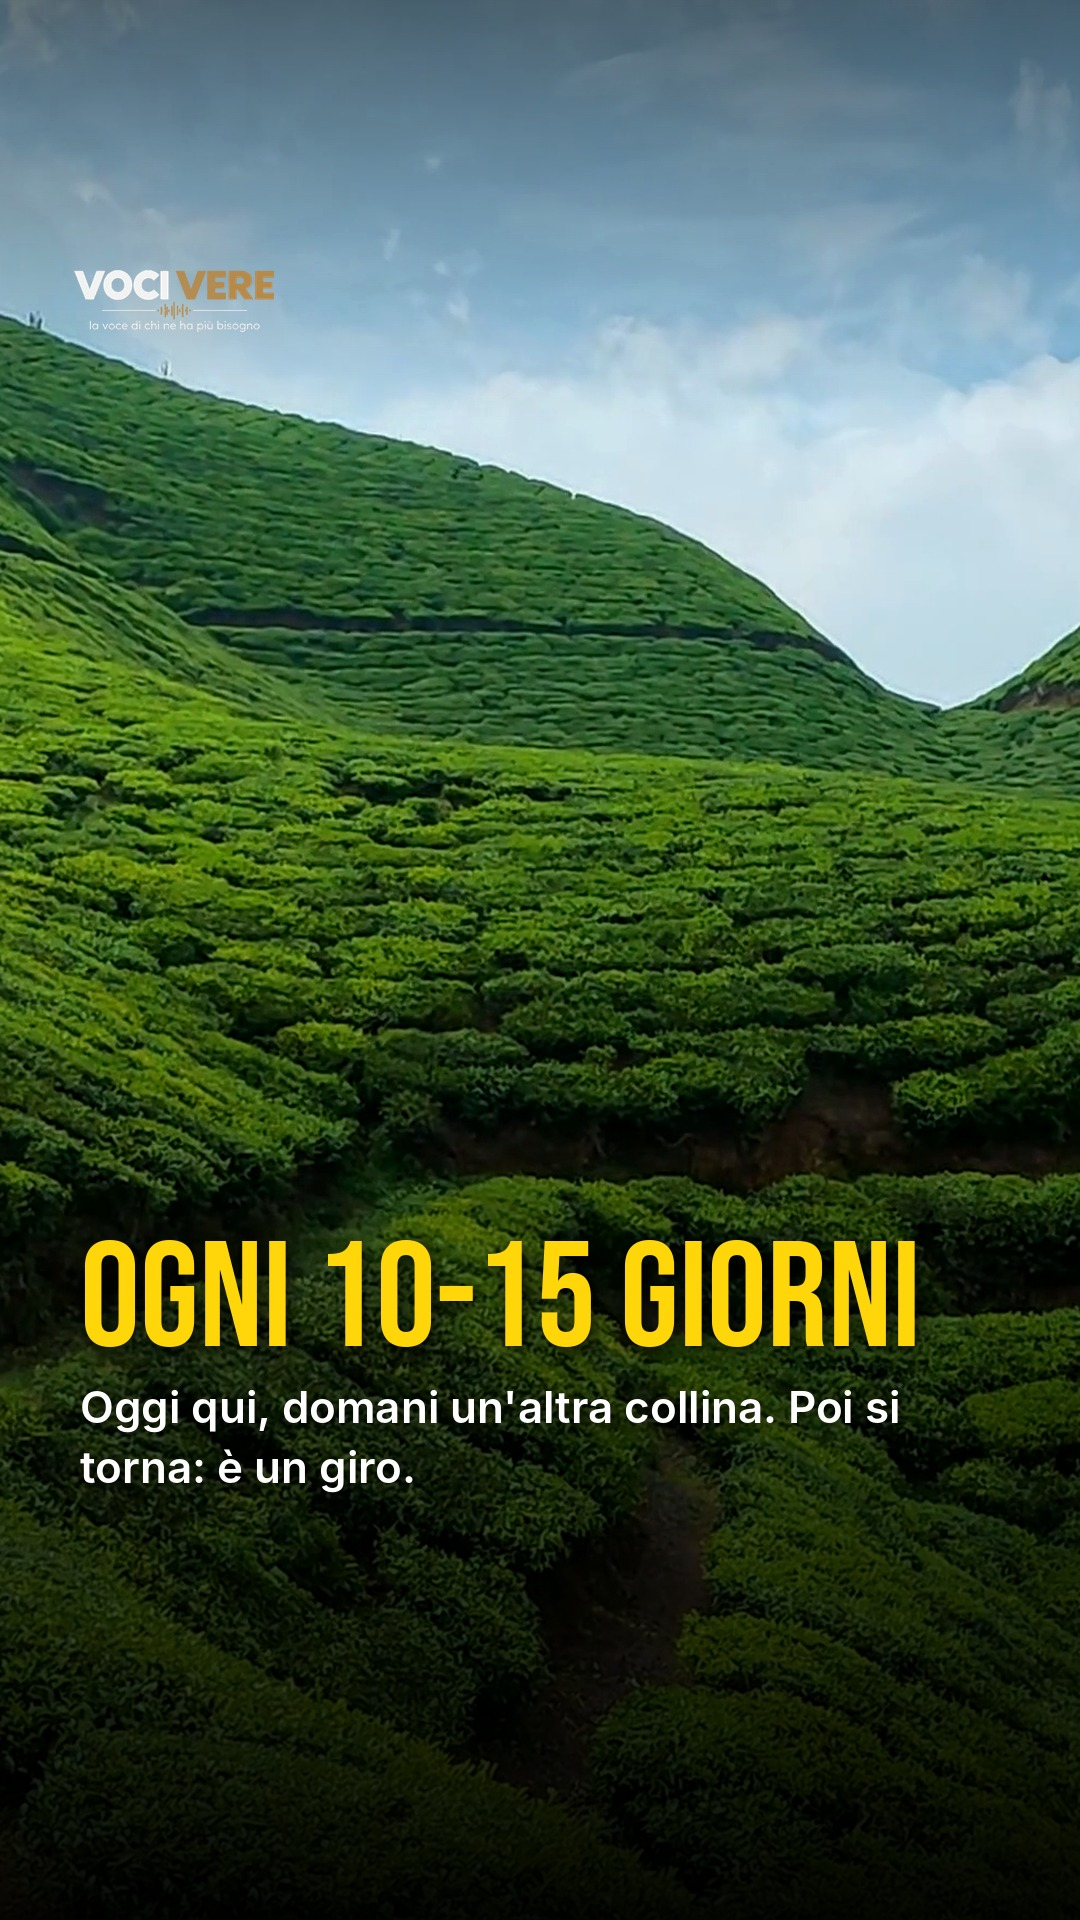
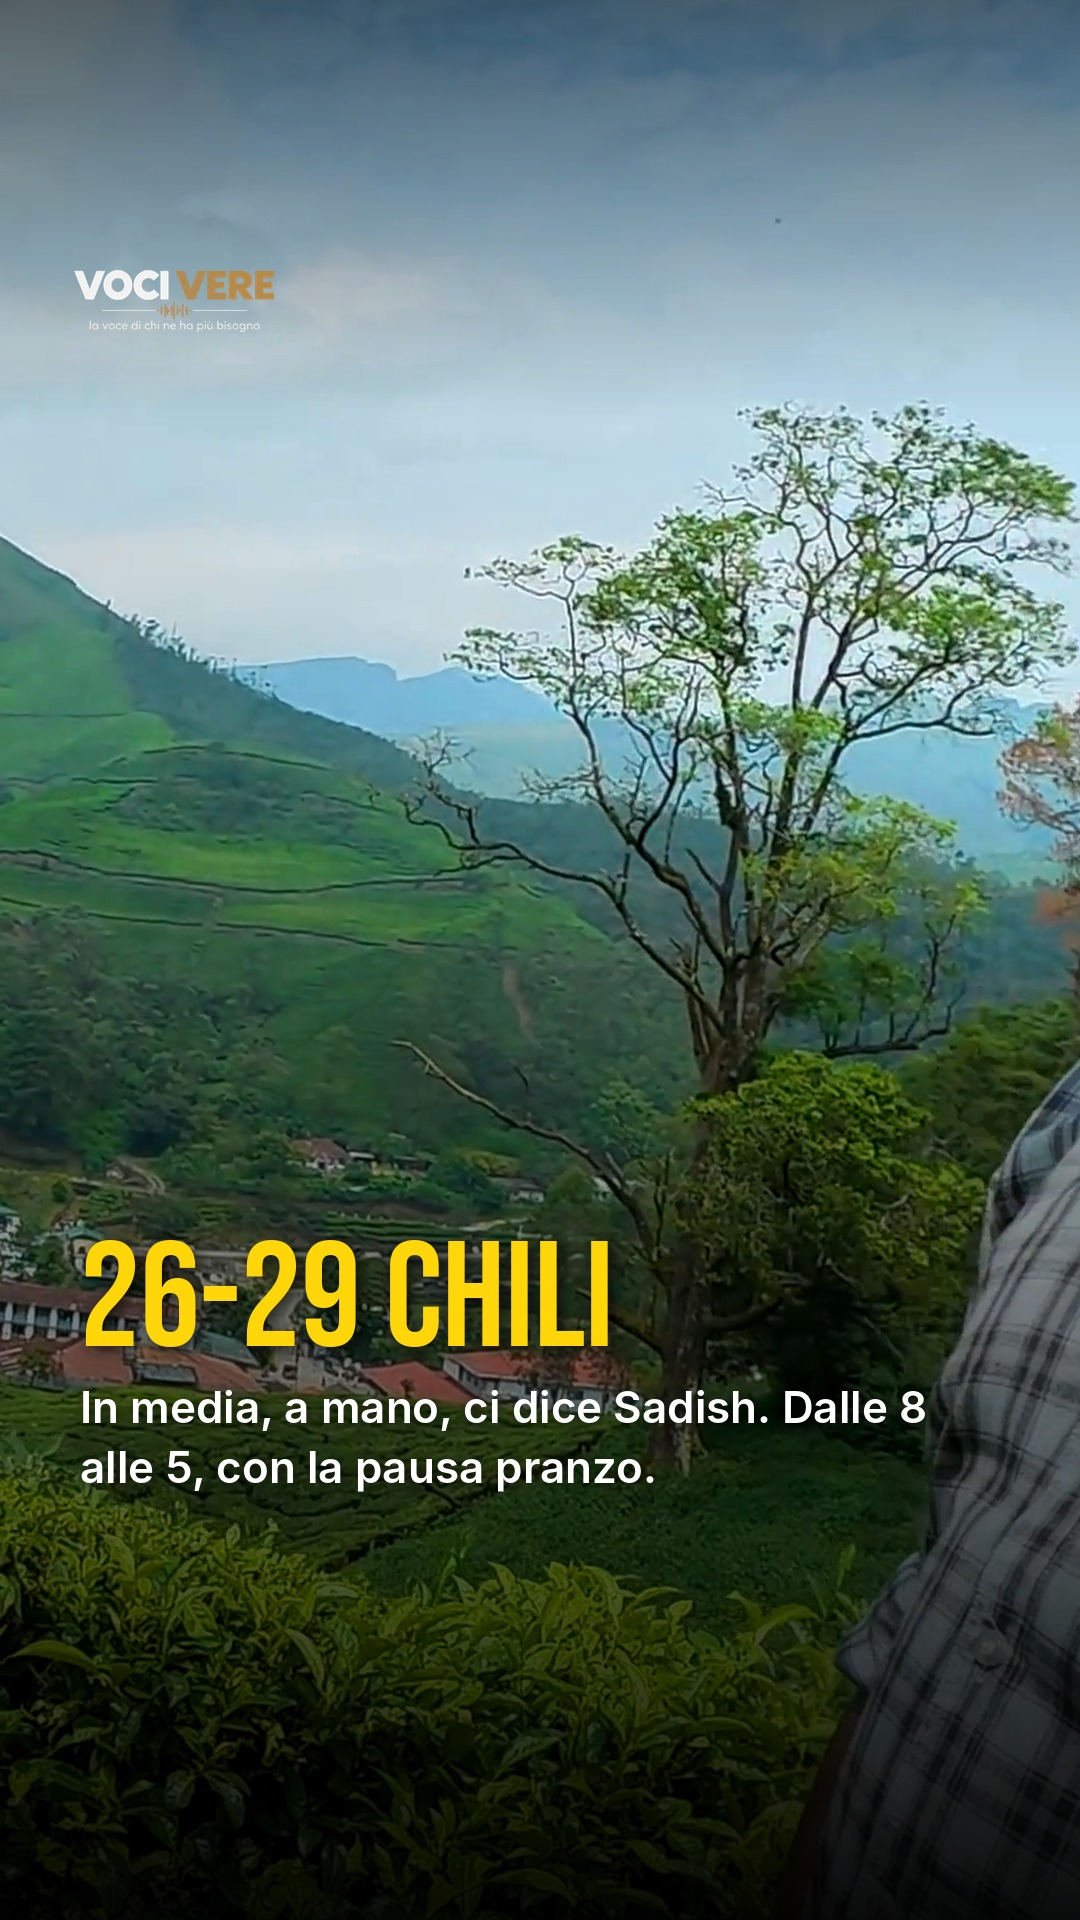
Copy: te, carosello v2 (slide diverse, video, foto spezzata) e storie 3x6; regola in regole/copy.md
Claude-Session: https://claude.ai/code/session_01Htfbh2yWc665ptbLq1HQGA

diff --git a/copioni/caroselli/carosello_te.py b/copioni/caroselli/carosello_te.py
@@ -1,24 +1,155 @@
-# Carosello del lungo te (8 immagini 4:5): stesse funzioni di carosello.py, fotogrammi del lungo v7 in work/te_copy/car/
-#   python3 copioni/caroselli/carosello_te.py   (dalla radice del repo)
-src=open('copioni/caroselli/carosello.py').read()
-exec(src[:src.index("C='work/car/'")])
-BEBAS='assets/fonts/BebasNeue-Regular.ttf'
-C='work/te_copy/car/t_'
-M=0.82  # solo la parte alta del fotogramma: in basso ci sono i sottotitoli impressi
-build('te',[
- dict(photo=C+'125.jpg',cover=True,crop=(.5,0,1.0,M),title='Affittate per 3.000 rupie l\'anno',hl=YEL,
-      body='Le colline del tè di Munnar, nel 1877. Kerala, India.'),
- dict(photo=C+'189.jpg',crop=(.45,0,1.0,M),kicker='MUNNAR, KERALA',title='Oltre 1.500 metri',hl=YEL,
-      body='Tutto quello che vedi, fino all\'orizzonte, è tè.'),
- dict(photo=C+'105.jpg',crop=(.35,0,1.0,M),title='Solo 2-3 foglie',hl=YEL,
-      body='Le buone si staccano a mano. Le scure non si usano, ci spiega Sadish.'),
- dict(photo=C+'97.jpg',crop=(.85,0,1.0,M),title='26-29 chili al giorno',
-      body='Quanto raccoglie in media una persona, a mano, ci racconta Sadish.'),
- dict(photo=C+'213.jpg',crop=(.4,0,1.0,M),kicker='1880',title='Il primo tè',hl=YEL,
-      body='Prima c\'era la foresta. Dal 1901 viene tagliata su larga scala.'),
- dict(photo=C+'265.jpg',crop=(.6,0,1.0,M),kicker='DAL 2005',title='L\'azienda è dei dipendenti',hl=YEL,
-      body='La maggior parte, circa 13 mila persone.'),
- dict(photo=C+'221.jpg',crop=(.5,0,1.0,M),kicker='2015',title='Nove giorni di sciopero',hl=YEL,
-      body='Migliaia di raccoglitrici bloccano Munnar, senza sindacati né partiti. Ottengono il bonus al 20%.'),
- dict(photo=C+'349.jpg',crop=(.4,0,1.0,M),title='Fuori ora il video su YouTube',hl=YEL),
-])
+# Carosello del lungo te, v2 (Manuel 29/10, riferimenti latiumani e Progetto Happiness): slide diverse tra loro.
+# Foto piena con testo a altezze diverse, mezza slide nera con poche parole grandi, foto che continua da una slide
+# all'altra (la seconda metà con la citazione su nero), due inquadrature con sottotitoli, slide video animate.
+# 4:5 (1080x1350), testi nel quadrato centrale 1080x1080 (YouTube ritaglia i post). Fotogrammi dal lungo v7.
+#   python3 copioni/caroselli/carosello_te.py   (dalla radice; lungo in work/te_copy/)
+import os, subprocess, re
+import numpy as np
+from PIL import Image, ImageDraw, ImageFont, ImageEnhance, ImageFilter
+W,H=1080,1350; SAFE=135
+V='work/te_copy/VociVere_te_long_4K.mp4'; WK='work/te_copy/car2'; OUT='copioni/caroselli/te'
+BEB='assets/fonts/BebasNeue-Regular.ttf'; IF='/usr/share/fonts/opentype/inter/'
+REG,BOLD,IT,BIT,BLACK=IF+'Inter-Regular.otf',IF+'Inter-Bold.otf',IF+'Inter-Italic.otf',IF+'Inter-BoldItalic.otf',IF+'Inter-Black.otf'
+LOGO='assets/brand/logo_vocivere_trasparente_chiaro.png'
+YEL=(255,214,10); WHITE=(255,255,255); GOLD=(182,138,75)
+UH=0.82   # il lungo ha i sottotitoli impressi in basso: si usa solo l'82% alto del fotogramma
+
+def frame(t):
+    p=f'{WK}/f_{t}.png'
+    if not os.path.exists(p): subprocess.run(['ffmpeg','-v','error','-y','-ss',str(t),'-i',V,'-frames:v','1',p],check=True)
+    return Image.open(p).convert('RGB')
+def grade(im): return ImageEnhance.Color(ImageEnhance.Contrast(im).enhance(1.08)).enhance(1.12)
+def crop(im,w,h,cx=.5,zoom=1.0,cy=0.0):
+    uh=int(im.height*UH); ch=int(uh/zoom); cw=int(ch*w/h)
+    if cw>im.width: cw=im.width; ch=int(cw*h/w)
+    x=int((im.width-cw)*cx); y=int((uh-ch)*cy); return grade(im.crop((x,y,x+cw,y+ch)).resize((w,h),Image.LANCZOS))
+def shade(im,spots):
+    g=np.zeros((im.height,im.width),np.float32); y=np.arange(im.height)[:,None]/im.height
+    for a,b,op in spots: g=np.maximum(g,np.clip((y-a)/(b-a),0,1)*op)
+    m=Image.fromarray((np.broadcast_to(g,(im.height,im.width))*255).astype('uint8'))
+    return Image.composite(Image.new('RGB',im.size,(0,0,0)),im.convert('RGB'),m)
+def logo(im,w=170,x=64,y=SAFE+18):
+    l=Image.open(LOGO).convert('RGBA'); l=l.crop(l.getbbox()); l=l.resize((w,int(l.height*w/l.width)),Image.LANCZOS); im.alpha_composite(l,(x,y))
+def num(im,n,tot):
+    d=ImageDraw.Draw(im); f=ImageFont.truetype(BOLD,28); t=f'{n}/{tot}'; d.text((W-64-d.textlength(t,font=f),SAFE+24),t,font=f,fill=(255,255,255,210))
+def shadow_text(im,xy,t,font,fill,r=6,op=200):
+    sh=Image.new('RGBA',im.size,(0,0,0,0)); ImageDraw.Draw(sh).text((xy[0]+3,xy[1]+4),t,font=font,fill=(0,0,0,op))
+    im.alpha_composite(sh.filter(ImageFilter.GaussianBlur(r))); ImageDraw.Draw(im).text(xy,t,font=font,fill=fill)
+
+def rich(im,text,x,y,maxw,size,italic=False,col=WHITE,lh=1.28,shadow=True):
+    """Testo a capo con **parole in grassetto**; ritorna la y finale."""
+    fr=ImageFont.truetype(IT if italic else REG,size); fb=ImageFont.truetype(BIT if italic else BOLD,size)
+    toks=[]
+    for i,part in enumerate(re.split(r'\*\*',text)):
+        for w in part.split():
+            if toks and re.match(r'^[.,:;!?»”]',w) and not part.startswith(' '): toks[-1]=(toks[-1][0],toks[-1][1],w)  # punteggiatura attaccata
+            else: toks.append((w,i%2==1,''))
+    d=ImageDraw.Draw(im); lines=[[]]; cur=0; sp=d.textlength(' ',font=fr)
+    for w,b,pn in toks:
+        wl=d.textlength(w,font=fb if b else fr); pl=d.textlength(pn,font=fr)
+        if lines[-1] and cur+sp+wl+pl>maxw: lines.append([]); cur=0
+        cur+=(sp if lines[-1] else 0)+wl+pl; lines[-1].append((w,b,wl,pn,pl))
+    for ln in lines:
+        xx=x
+        for w,b,wl,pn,pl in ln:
+            for tt,f,ww in ((w,fb if b else fr,wl),(pn,fr,pl)):
+                if not tt: continue
+                if shadow: shadow_text(im,(xx,y),tt,f,col)
+                else: ImageDraw.Draw(im).text((xx,y),tt,font=f,fill=col)
+                xx+=ww
+            xx+=sp
+        y+=int(size*lh)
+    return y
+def rich_h(text,maxw,size,italic=False,lh=1.28):
+    im=Image.new('RGBA',(W,H)); return rich(im,text,0,0,maxw,size,italic,lh=lh,shadow=False)
+def big(im,lines,x,y,size,center=False):
+    f=ImageFont.truetype(BEB,size); d=ImageDraw.Draw(im)
+    for t,col in lines:
+        xx=(W-d.textlength(t,font=f))/2 if center else x
+        shadow_text(im,(xx,y),t,f,col,8,220); y+=int(size*0.93)
+    return y
+def quote(im,x,y,maxw,text,size=46):
+    f=ImageFont.truetype(BLACK,150); d=ImageDraw.Draw(im)
+    d.text((x-6,y-40),'“',font=f,fill=GOLD)
+    y2=rich(im,text,x,y+110,maxw,size,italic=True,shadow=False)
+    d.text((x+maxw-90,y2-50),'”',font=f,fill=GOLD)
+    return y2
+
+# ---------- slide statiche ----------
+def s_split(out_a,out_b,t,x0,photo_frac,para,quote_txt,by,n,tot):
+    """Una foto che continua su due slide: A piena con il paragrafo, B con il resto della foto a sinistra e nero a destra."""
+    im=frame(t); uh=int(im.height*UH); s=H/uh; pw=int(W*photo_frac)
+    strip=grade(im.crop((x0,0,x0+int((W+pw)/s),uh)).resize((W+pw,H),Image.LANCZOS))
+    a=shade(strip.crop((0,0,W,H)),[(0.45,1.0,0.85)]).convert('RGBA'); logo(a); num(a,n,tot)
+    rich(a,para,64,by,W-128,44); a.convert('RGB').save(out_a,quality=92)
+    b=Image.new('RGBA',(W,H),(0,0,0,255)); b.paste(strip.crop((W,0,W+pw,H)),(0,0)); logo(b); num(b,n+1,tot)
+    quote(b,pw+44,320,W-pw-80,quote_txt,52); b.convert('RGB').save(out_b,quality=92)
+def s_halfblack(out,t,cx,words,small,n,tot,top_black=True):
+    im=Image.new('RGBA',(W,H),(0,0,0,255)); ph=crop(frame(t),W,H//2,cx); hy=H//2 if top_black else 0
+    im.paste(ph,(0,hy)); logo(im); num(im,n,tot)
+    f=ImageFont.truetype(BEB,150); y=SAFE+150 if top_black else H//2+90
+    y=big(im,words,64,y,150); rich(im,small,64,y+14,W-128,40)
+    im.convert('RGB').save(out,quality=92)
+def s_stacked(out,items,n,tot):
+    im=Image.new('RGBA',(W,H),(0,0,0,255)); h=H//2
+    for i,(t,cx,sub) in enumerate(items):
+        ph=crop(frame(t),W,h,cx).convert('RGBA'); im.alpha_composite(ph,(0,i*h))
+        f=ImageFont.truetype(BOLD,40); d=ImageDraw.Draw(im); tw=d.textlength(sub,font=f)
+        shadow_text(im,((W-tw)/2,i*h+h-(150 if i==1 else 110)),sub,f,WHITE,5,230)
+    logo(im); num(im,n,tot); im.convert('RGB').save(out,quality=92)
+def s_photo(out,t,cx,kicker,title,body,y,n,tot,zoom=1.0):
+    im=shade(crop(frame(t),W,H,cx,zoom),[(0.25,0.75,0.75),(0.75,1.0,0.75)]).convert('RGBA'); logo(im); num(im,n,tot)
+    d=ImageDraw.Draw(im); fk=ImageFont.truetype(BOLD,30)
+    kw=d.textlength(kicker,font=fk); d.rounded_rectangle((64,y,64+kw+32,y+46),radius=8,fill=GOLD); d.text((80,y+6),kicker,font=fk,fill=WHITE)
+    y=big(im,[(title,YEL)],64,y+66,118); rich(im,body,64,y+14,W-128,42); im.convert('RGB').save(out,quality=92)
+def s_para(out,t,cx,para,y,n,tot):
+    im=shade(crop(frame(t),W,H,cx),[(0.35,0.85,0.8)]).convert('RGBA'); logo(im); num(im,n,tot)
+    rich(im,para,64,y,W-128,46); im.convert('RGB').save(out,quality=92)
+
+# ---------- slide video (testo che compare) ----------
+def s_video(out,t0,dur,cx,draw_text,n,tot,shade_spots):
+    """Clip dal lungo, 4:5, senza audio; il testo entra in dissolvenza dopo 0,4 s. Salva anche il jpg (post YouTube)."""
+    base=Image.new('RGBA',(W,H),(0,0,0,0)); g=np.zeros((H,W),np.float32); y=np.arange(H)[:,None]/H
+    for a,b,op in shade_spots: g=np.maximum(g,np.clip((y-a)/(b-a),0,1)*op)
+    base.putalpha(Image.fromarray((np.broadcast_to(g,(H,W))*255).astype('uint8'))); logo(base); num(base,n,tot)
+    txt=Image.new('RGBA',(W,H),(0,0,0,0)); draw_text(txt)
+    base.save(f'{WK}/ov_base.png'); txt.save(f'{WK}/ov_txt.png')
+    uh=int(2160*UH); cw=int(uh*W/H); x=int((3840-cw)*cx)
+    fc=(f"[0:v]crop={cw}:{uh}:{x}:0,scale={W}:{H}:flags=lanczos,eq=contrast=1.06:saturation=1.12,setsar=1[v];"
+        f"[1:v]format=rgba[b];[2:v]format=rgba,fade=in:st=0.4:d=0.7:alpha=1[t];[v][b]overlay[vb];[vb][t]overlay,format=yuv420p[o]")
+    subprocess.run(['ffmpeg','-v','error','-y','-ss',str(t0),'-t',str(dur),'-i',V,'-loop','1','-t',str(dur),'-i',f'{WK}/ov_base.png',
+                    '-loop','1','-t',str(dur),'-i',f'{WK}/ov_txt.png','-filter_complex',fc,'-map','[o]','-an','-r','30',
+                    '-c:v','libx264','-crf','18','-preset','slow','-movflags','+faststart',out],check=True)
+    subprocess.run(['ffmpeg','-v','error','-y','-sseof','-0.1','-i',out,'-frames:v','1','-q:v','2',out.replace('.mp4','_YT.jpg')],check=True)
+
+os.makedirs(OUT,exist_ok=True)
+for f in os.listdir(OUT): os.remove(os.path.join(OUT,f))
+T=9; o=lambda n,ext='jpg': f'{OUT}/{n:02d}.{ext}'
+def cover_txt(im):
+    y=big(im,[("AFFITTATE PER",WHITE),("3.000 RUPIE L'ANNO",YEL)],64,560,128)
+    rich(im,'Le colline del tè di **Munnar**, nel 1877. Kerala, India.',64,y+16,W-128,42)
+    f=ImageFont.truetype(BOLD,34); shadow_text(im,(W-64-ImageDraw.Draw(im).textlength('Scorri  →',font=f),H-SAFE-60),'Scorri  →',f,YEL)
+s_video(o(1,'mp4'),120.0,7.0,0.5,cover_txt,1,T,[(0.0,0.25,0.0),(0.35,0.9,0.85)])
+s_halfblack(o(2),189,0.45,[("TUTTO QUESTO",WHITE),("È TÈ",YEL)],'Munnar, Kerala, a oltre **1.500 metri**.',2,T)
+s_split(o(3),o(4),262.5,733,0.55,
+        'Sadish è di qui. Ci porta **tra i filari** dove la gente del posto **raccoglie il tè**: non il panorama, il lavoro.',
+        'A Munnar **quasi tutti lavorano nel tè**. Già prima che nascessi io, **mio padre e mia madre**.',710,3,T)
+s_stacked(o(5),[(97.5,0.7,'«Due, tre foglie: quelle buone»'),(119.2,0.55,'«Le scure non si usano»')],5,T)
+def kg_txt(im):
+    y=big(im,[("26-29 CHILI",YEL),("AL GIORNO",WHITE)],64,SAFE+170,140)
+    rich(im,'Quanto raccoglie **in media una persona**, a mano, ci dice Sadish.',64,y+16,W-128,42)
+s_video(o(6,'mp4'),97.0,6.0,0.75,kg_txt,6,T,[(0.45,0.0,0.75)])
+s_photo(o(7),265,0.6,'DAL 2005',"L'AZIENDA È DEI DIPENDENTI",'Per la maggior parte: **circa 13 mila persone**.',SAFE+330,7,T)
+s_para(o(8),221,0.5,'Nel **2015** migliaia di **raccoglitrici** bloccano Munnar per **nove giorni**, senza sindacati né partiti. '
+       'Si chiamano **Pombilai Orumai**: unità delle donne. E ottengono il **bonus al 20%**.',640,8,T)
+def end_txt(im): big(im,[("FUORI ORA IL VIDEO",WHITE),("SU YOUTUBE",YEL)],64,SAFE+200,120)
+s_video(o(9,'mp4'),347.8,2.7,0.3,end_txt,9,T,[(0.45,0.0,0.8)])
+
+# anteprima: per i video, il fotogramma finale
+ims=[]
+for n in range(1,T+1):
+    p=o(n) if os.path.exists(o(n)) else o(n,'mp4').replace('.mp4','_YT.jpg'); ims.append(Image.open(p).resize((216,270)))
+G=Image.new('RGB',(226*T+10,290),(20,20,20))
+for i,m in enumerate(ims): G.paste(m,(10+i*226,10))
+G.save('copioni/caroselli/te_anteprima.jpg',quality=85)
+print('ok')

diff --git a/copioni/stories/stories.py b/copioni/stories/stories.py
@@ -135,14 +135,11 @@ build(A,'set2_storie',[
  dict(video=A,t=349,kicker='VELUTHACHAN',title='Il padre bianco',body='Padre Giacomo Fenicio. Lo chiamano ancora così, più di 400 anni dopo.',crop=(.55,1,.5)),
  dict(video=A,t=289,kind='ask',title='Hai mai fatto un pellegrinaggio a piedi?',body='Raccontamelo qui sotto.',hl=0,crop=(.5,1,.5),tsize=130),
 ])
+# te: 3 set da 6 (Manuel 29/10: 2 set da 10 sono troppi)
 build(T,'set1_raccolta',[
  dict(video=T,t=189,kicker='MUNNAR, KERALA',title='Tutto questo è tè',body='Colline fino all\'orizzonte, a oltre 1.500 metri.',crop=(.5,1,.5)),
  dict(video=T,t=101,kind='ask',title='Quante foglie si staccano da ogni rametto?',hl=0,crop=(.45,1,.5),tsize=124),
  dict(video=T,t=105,title='Solo 2-3 foglie',body='Le buone vanno in fabbrica. Le scure non si usano, ci spiega Sadish.',crop=(.35,1,.5)),
- dict(video=T,t=125,kind='ask',title='Ogni quanto si torna sulla stessa pianta?',hl=0,crop=(.5,1,.5),tsize=124),
- dict(video=T,t=121,title='Ogni 10-15 giorni',body='Oggi qui, domani un\'altra collina. Poi si torna: è un giro.',crop=(.5,1,.5)),
- dict(video=T,t=81,kind='ask',title='Quanti anni vive una pianta di tè?',hl=0,crop=(.5,1,.5),tsize=130),
- dict(video=T,t=73,title='Più di cent\'anni',body='"Questa pianta ha più di cent\'anni", ci dice Sadish.',crop=(.6,1,.5)),
  dict(video=T,t=97,kind='ask',title='Quanti chili raccoglie una persona in un giorno?',hl=0,crop=(.8,1,.5),tsize=118),
  dict(video=T,t=161,title='26-29 chili',body='In media, a mano, ci dice Sadish. Dalle 8 alle 5, con la pausa pranzo.',crop=(.75,1,.5)),
  dict(video=T,t=229,kind='ask',title='Che tè bevi tu?',body='Raccontamelo qui sotto. Tutta la storia nel video sul canale.',hl=0,crop=(.5,1,.5),tsize=140),
@@ -154,8 +151,12 @@ build(T,'set2_storia',[
  dict(video=T,t=265,kind='ask',title='Di chi è oggi l\'azienda del tè di queste colline?',hl=0,crop=(.6,1,.5),tsize=118),
  dict(video=T,t=273,kicker='DAL 2005',title='Dei dipendenti',body='Per la maggior parte: circa 13 mila persone.',crop=(.5,1,.5)),
  dict(video=T,t=221,kicker='2015',title='Nove giorni di sciopero',body='Migliaia di raccoglitrici bloccano Munnar. Si chiamano Pombilai Orumai: unità delle donne.',crop=(.5,1,.5)),
- dict(video=T,t=317,kind='ask',title='Chi produce più tè al mondo?',hl=0,crop=(.5,1,.5),tsize=130),
- dict(video=T,t=321,title='La Cina, poi l\'India',body='"L\'India è seconda", ci dice Sadish. "Qui è una cultura molto profonda."',crop=(.8,1,.5)),
+])
+build(T,'set3_piante_chai',[
+ dict(video=T,t=125,kind='ask',title='Ogni quanto si torna sulla stessa pianta?',hl=0,crop=(.5,1,.5),tsize=124),
+ dict(video=T,t=121,title='Ogni 10-15 giorni',body='Oggi qui, domani un\'altra collina. Poi si torna: è un giro.',crop=(.5,1,.5)),
+ dict(video=T,t=81,kind='ask',title='Quanti anni vive una pianta di tè?',hl=0,crop=(.5,1,.5),tsize=130),
+ dict(video=T,t=73,title='Più di cent\'anni',body='"Questa pianta ha più di cent\'anni", ci dice Sadish.',crop=(.6,1,.5)),
  dict(video=T,t=349,title='Il chai master',body='Tira il tè da un bicchiere all\'altro. Gli ho chiesto di parlare: si è rifiutato.',crop=(.42,1,.5)),
  dict(video=T,t=361,kind='ask',title='Hai mai assaggiato il chai?',body='Tutta la storia nel video sul canale.',hl=0,crop=(.45,1,.5),tsize=136),
 ])

diff --git a/copioni/stories/storie_testi.md b/copioni/stories/storie_testi.md
@@ -48,27 +48,27 @@ Quando: dopo l'uscita del lungo, un set per giorno, nei giorni senza reel o insi
 7. Risposta: Veluthachan, il padre bianco (padre Giacomo Fenicio)
 8. BOX DOMANDE "Hai mai fatto un pellegrinaggio a piedi?"
 
-## Te (dopo l'uscita del lungo, dom 15/11)
-### Set 1, la raccolta (`te/set1_raccolta`, 10 storie)
+## Te (dopo l'uscita del lungo, dom 15/11): 3 set da 6 (Manuel 29/10)
+### Set 1, la raccolta (`te/set1_raccolta`)
 1. Tutto questo è tè (Munnar, oltre 1.500 metri)
 2. QUIZ "Quante foglie si staccano da ogni rametto?" opzioni: 1 / 2-3 (giusta) / 5
 3. Risposta: solo 2-3 foglie (Sadish)
-4. QUIZ "Ogni quanto si torna sulla stessa pianta?" opzioni: Ogni giorno / Ogni 10-15 giorni (giusta) / Ogni 3 mesi
-5. Risposta: ogni 10-15 giorni, è un giro
-6. QUIZ "Quanti anni vive una pianta di tè?" opzioni: 10 / 50 / Più di 100 (giusta)
-7. Risposta: più di cent'anni (Sadish)
-8. QUIZ "Quanti chili raccoglie una persona in un giorno?" opzioni: 5-10 / 26-29 (giusta) / 60
-9. Risposta: 26-29 chili, in media (Sadish)
-10. BOX DOMANDE "Che tè bevi tu?" (+ link al video)
+4. QUIZ "Quanti chili raccoglie una persona in un giorno?" opzioni: 5-10 / 26-29 (giusta) / 60
+5. Risposta: 26-29 chili, in media (Sadish)
+6. BOX DOMANDE "Che tè bevi tu?" (+ link al video)
 
-### Set 2, la storia (`te/set2_storia`, 10 storie)
+### Set 2, la storia (`te/set2_storia`)
 1. QUIZ "Nel 1877 queste colline vengono affittate. Per quanto?" opzioni: 3.000 rupie l'anno (giusta) / 3 milioni di rupie / Regalate
 2. Risposta: 3.000 rupie l'anno, circa 136 mila acri, John Daniel Munro
 3. 1880, il primo tè; dal 1901 la foresta tagliata
 4. QUIZ "Di chi è oggi l'azienda del tè di queste colline?" opzioni: Dello Stato / Di una multinazionale / Dei dipendenti (giusta)
 5. Risposta: dal 2005 per la maggior parte dei dipendenti, circa 13 mila
-6. 2015, nove giorni di sciopero, Pombilai Orumai
-7. QUIZ "Chi produce più tè al mondo?" opzioni: India / Cina (giusta) / Sri Lanka
-8. Risposta: la Cina, poi l'India (Sadish)
-9. Il chai master, che non ha voluto parlare
-10. SONDAGGIO "Hai mai assaggiato il chai?" Sì / No (+ link al video)
+6. 2015, nove giorni di sciopero, Pombilai Orumai (+ link al video)
+
+### Set 3, le piante e il chai (`te/set3_piante_chai`)
+1. QUIZ "Ogni quanto si torna sulla stessa pianta?" opzioni: Ogni giorno / Ogni 10-15 giorni (giusta) / Ogni 3 mesi
+2. Risposta: ogni 10-15 giorni, è un giro
+3. QUIZ "Quanti anni vive una pianta di tè?" opzioni: 10 / 50 / Più di 100 (giusta)
+4. Risposta: più di cent'anni (Sadish)
+5. Il chai master, che non ha voluto parlare
+6. SONDAGGIO "Hai mai assaggiato il chai?" Sì / No (+ link al video)

diff --git a/regole/copy.md b/regole/copy.md
@@ -70,3 +70,11 @@ Manuel ha approvato il montato, Copy prepara subito tutto il pacchetto senza asp
 sottotitoli .srt it/en del lungo, titolo it/en, descrizione it/en con capitoli, miniatura (prove + consigliata),
 carosello (8 immagini + didascalia IG + post YouTube + posizione), didascalie e testi dei 4 verticali e degli
 eventuali reel extra. Tutto su Drive in montati/<video>/ e nel repo; poi un solo messaggio riassuntivo a Manuel.
+
+Caroselli e storie (Manuel, 29/10, riferimenti latiumani e Progetto Happiness; primo esempio: copioni/caroselli/carosello_te.py):
+- Slide diverse tra loro: foto piena con il testo a altezze diverse (mai tutto in basso, un po' più alto), mezza
+  slide nera con 2-10 parole grandi e mezza foto (panorama o persona intervistata), due inquadrature una sopra
+  l'altra con le frasi vere come sottotitoli, paragrafo con le parole chiave in grassetto, citazione su nero con
+  le virgolette oro, una foto che continua dalla slide prima (nella seconda: il resto della foto + nero con la
+  citazione). 2-3 slide video con il testo che compare (per il post YouTube il loro fotogramma .jpg).
+- Storie: 3 set da 6 per ogni lungo (non 2 da 10). Solo la domanda, mai la scritta "quiz".

diff --git a/copioni/caroselli/testi_caroselli.md b/copioni/caroselli/testi_caroselli.md
@@ -35,7 +35,9 @@ Post YouTube (scheda Community):
 Cammineresti 13 km di notte pregando? Scrivi SÌ o NO nei commenti. Il video completo è sul canale.
 
 ## Te (dopo l'uscita del lungo, mer 18/11)
-Immagini: copioni/caroselli/te/01-08.jpg (`python3 copioni/caroselli/carosello_te.py`), su Drive montati/te/carosello/.
+9 slide, v2 con i riferimenti di Manuel (29/10): 01, 06 e 09 sono video (.mp4, testo animato, senza audio), le altre .jpg.
+File: copioni/caroselli/te/ (`python3 copioni/caroselli/carosello_te.py`), su Drive montati/te/carosello/.
+Post YouTube: solo immagini, al posto dei video si usano 01_YT.jpg, 06_YT.jpg, 09_YT.jpg.
 Posizione IG/YT: Munnar, Kerala
 Didascalia IG:
 Affittate per 3.000 rupie l'anno 🇮🇳
